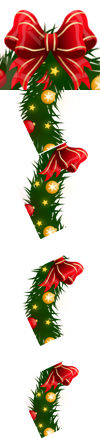
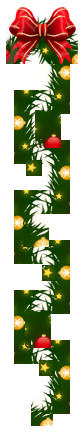
Replace Christmas top garland with authentic duplicating seamless pine, poinsettia, baubles and pinecones

diff --git a/extensions/utsav-app-block/assets/festive-effects.js b/extensions/utsav-app-block/assets/festive-effects.js
@@ -326,22 +326,12 @@ function buildSpiderWeb() {
           `;
         }
 
-        // 2. Christmas: Evergreen Pine & Holly Swag with Twinkling Holiday Bulbs
+        // 2. Christmas: Authentic Duplicating Seamless Pine, Poinsettia & Bauble Garland
         if (fest.includes("christmas")) {
-          const holidayColors = ["#FF1744", "#FFD700", "#00E676", "#2979FF"];
           return `
-            <svg width="100%" height="54" viewBox="0 0 1200 54" preserveAspectRatio="none" xmlns="http://www.w3.org/2000/svg" style="display:block; background: transparent;">
-              <path d="M 0 5 Q 600 32 1200 5" stroke="#1B4D2E" stroke-width="4.5" fill="none"/>
-              ${[40, 140, 240, 340, 440, 540, 640, 740, 840, 940, 1040, 1140].map((x, i) => `
-                <g transform="translate(${x}, 14)">
-                  <path d="M -12 -6 L 0 0 L -12 6" stroke="#2E7D32" stroke-width="2.5" stroke-linecap="round"/>
-                  <path d="M 12 -6 L 0 0 L 12 6" stroke="#2E7D32" stroke-width="2.5" stroke-linecap="round"/>
-                  <circle cx="0" cy="0" r="4.5" fill="${holidayColors[i % holidayColors.length]}" class="utsav-bulb-twinkle-1" style="filter: drop-shadow(0 0 6px #FFD700);"/>
-                  <circle cx="-5" cy="5" r="2.5" fill="#D32F2F"/>
-                  <circle cx="5" cy="5" r="2.5" fill="#D32F2F"/>
-                </g>
-              `).join('')}
-            </svg>
+            <div class="utsav-christmas-top-garland-wrap" style="position:relative; width:100%; height:90px; overflow:hidden; pointer-events:none;">
+              <div style="position:absolute; inset:0; background-image:url('https://utsav-shopify.onrender.com/christmas-garland-tile.webp'); background-repeat:repeat-x; background-size:auto 90px; background-position:top center; filter:drop-shadow(0 5px 12px rgba(0,0,0,0.35));"></div>
+            </div>
           `;
         }
 
@@ -900,20 +890,12 @@ function buildSpiderWeb() {
           `;
         }
 
-        // 2. Christmas: Vertical Pine & Holly Swag with Twinkling Holiday Bulbs
+        // 2. Christmas: Lush Vertical Pine Swag with Red Velvet Bow & Hanging Baubles
         if (fest.includes("christmas")) {
-          const holidayColors = ["#FF1744", "#FFD700", "#00E676", "#2979FF"];
           return `
-            <svg viewBox="-16 0 76 440" width="76" height="440" xmlns="http://www.w3.org/2000/svg" style="display:block; overflow:visible;">
-              <line x1="22" y1="0" x2="22" y2="420" stroke="#1B4D2E" stroke-width="3"/>
-              ${[20, 60, 100, 140, 180, 220, 260, 300, 340, 380].map((y, i) => `
-                <g transform="translate(22, ${y})">
-                  <path d="M ${i % 2 === 0 ? '-12' : '12'} -8 L 0 0 L ${i % 2 === 0 ? '-12' : '12'} 8" stroke="#2E7D32" stroke-width="2.5" stroke-linecap="round"/>
-                  <circle cx="0" cy="0" r="4" fill="${holidayColors[i % holidayColors.length]}" class="utsav-bulb-twinkle-1"/>
-                  <circle cx="${i % 2 === 0 ? '6' : '-6'}" cy="4" r="2.2" fill="#D32F2F"/>
-                </g>
-              `).join('')}
-            </svg>
+            <div style="width:100%; height:100%; position:relative; overflow:hidden; pointer-events:none; display:flex; flex-direction:column; align-items:center; transform: ${isLeft ? 'none' : 'scaleX(-1)'};">
+              <img src="https://utsav-shopify.onrender.com/christmas-side-swag.webp" alt="Christmas Side Swag" style="width:100%; height:100%; object-fit:fill; display:block; filter:drop-shadow(${isLeft ? '2px' : '-2px'} 4px 8px rgba(0,0,0,0.3));" />
+            </div>
           `;
         }
 

diff --git a/app/routes/app.festivals.$id.jsx b/app/routes/app.festivals.$id.jsx
@@ -2335,13 +2335,21 @@ function DynamicFestivalHeaderWidget({ festival, isMobile, height = 32, withLigh
     );
   }
 
-  // 2. Christmas Lush Evergreen Pine Garland with Red Velvet Bows & Baubles
+  // 2. Christmas Seamless Duplicating Pine, Poinsettia & Baubles Garland
   if (festId.includes("christmas")) {
+    const garlandH = isMobile ? Math.min(height, 58) : Math.max(height, 68);
     return (
-      <div style={{ width: "100%", height: `${height}px`, position: "relative", overflow: "hidden", background: "transparent", pointerEvents: "none" }}>
-        <img
-          src="https://utsav-shopify.onrender.com/christmas-garland-top.webp" alt="Christmas Pine Garland"
-          style={{ width: "100%", height: "100%", objectFit: "fill", objectPosition: "top center", display: "block", filter: "drop-shadow(0 3px 8px rgba(0,0,0,0.35))" }}
+      <div style={{ width: "100%", height: `${garlandH}px`, position: "relative", overflow: "hidden", background: "transparent", pointerEvents: "none" }}>
+        <div
+          style={{
+            position: "absolute",
+            inset: 0,
+            backgroundImage: "url('https://utsav-shopify.onrender.com/christmas-garland-tile.webp')",
+            backgroundRepeat: "repeat-x",
+            backgroundSize: `auto ${garlandH}px`,
+            backgroundPosition: "top center",
+            filter: "drop-shadow(0 4px 10px rgba(0,0,0,0.35))",
+          }}
         />
       </div>
     );
